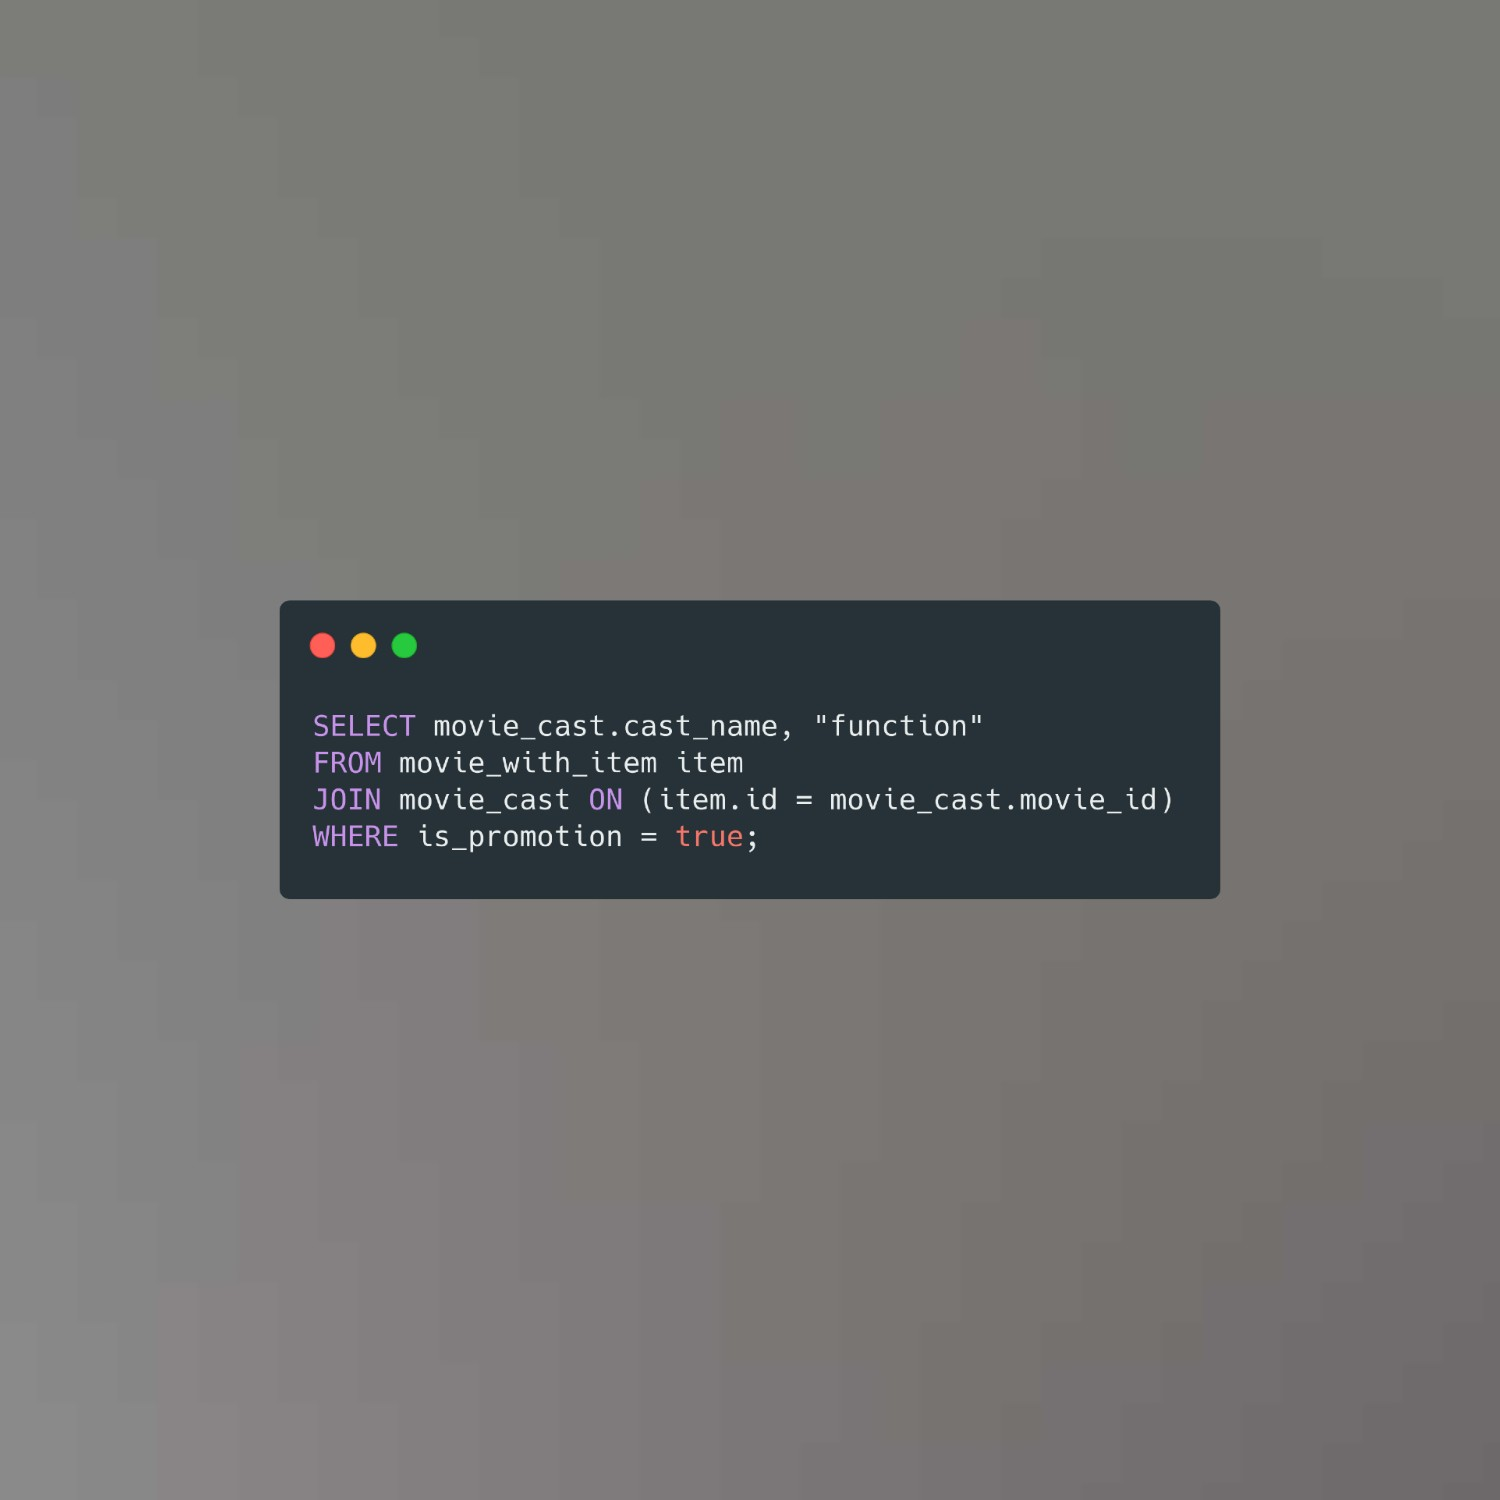
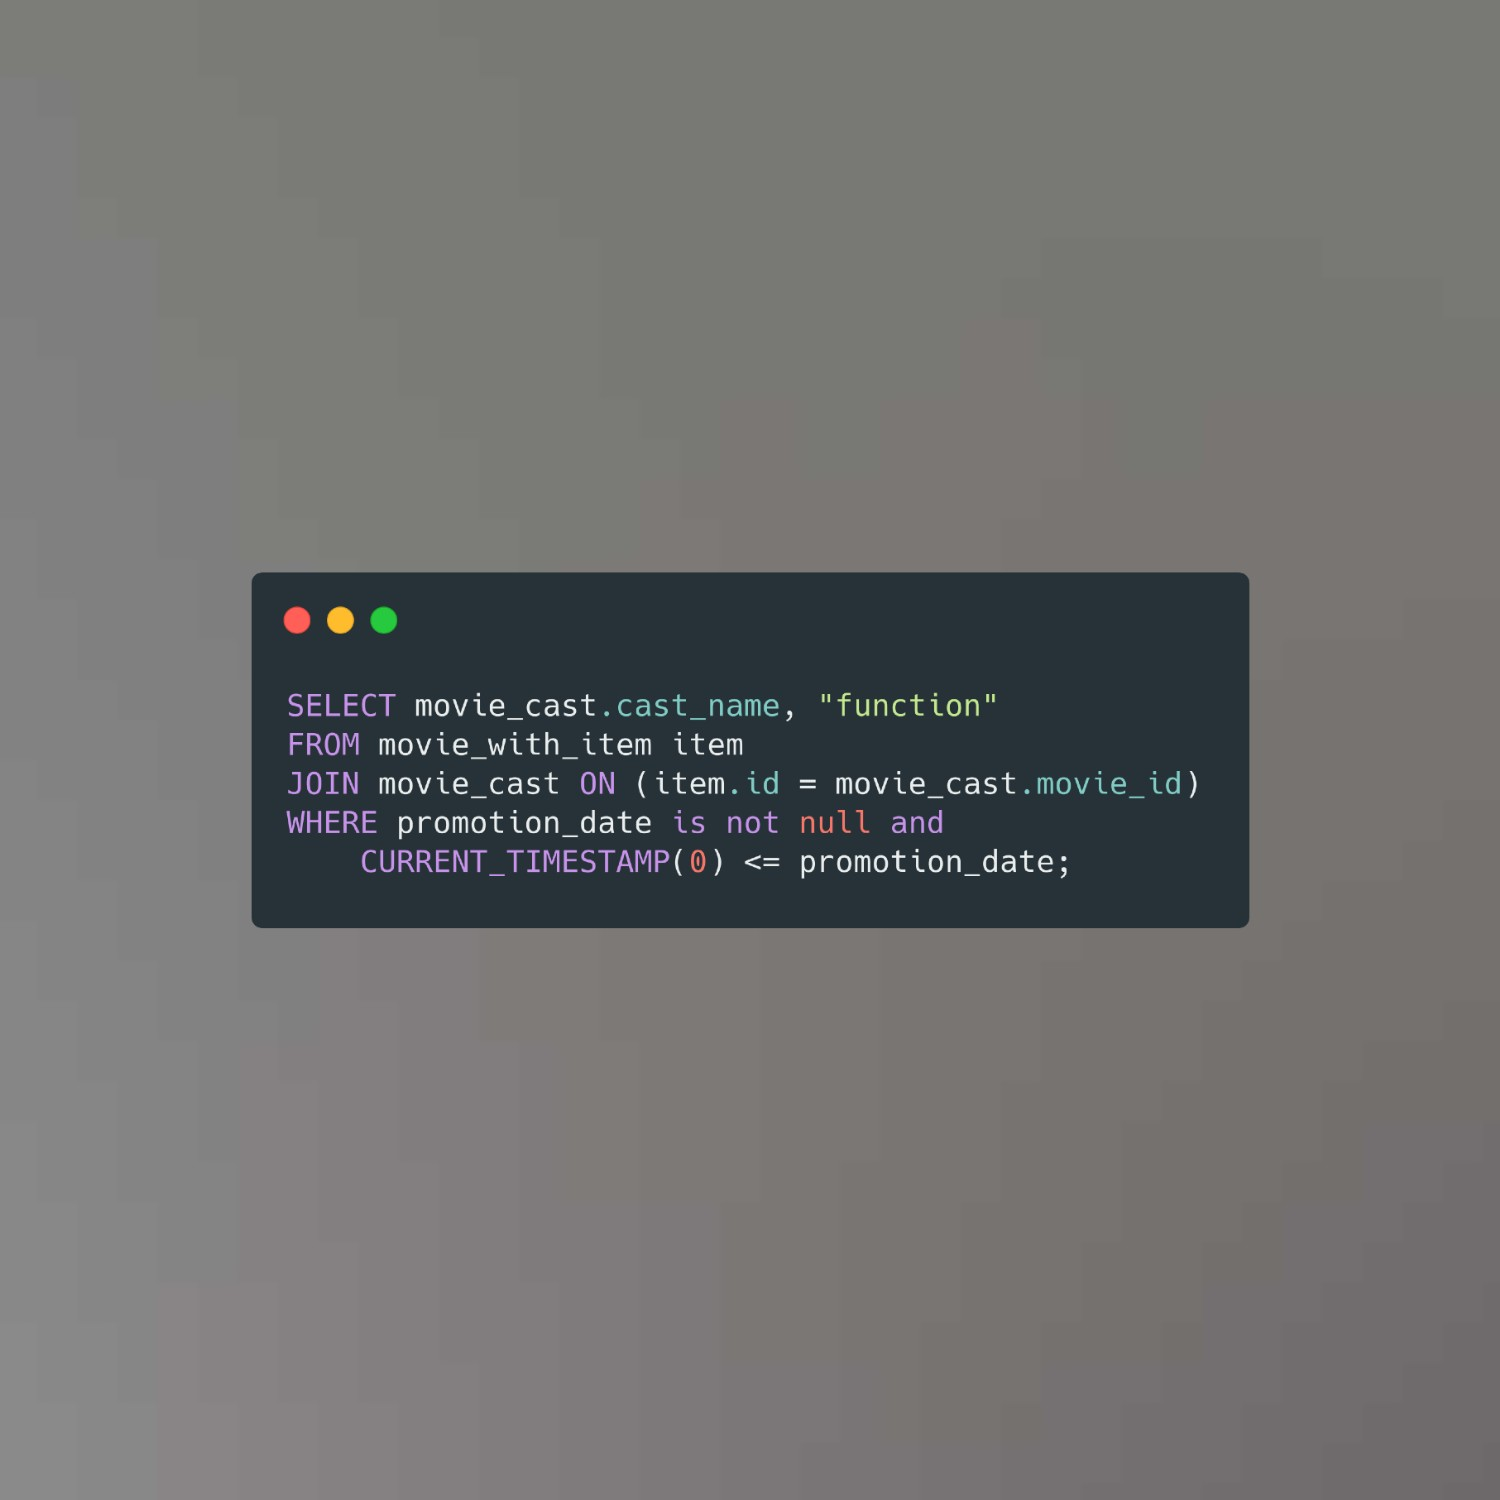
:sparkles: Changed is_promotion to promotion-date

Changed region(s): [[0.1533, 0.368, 0.8587, 0.644], [0.552, 0.46, 0.6747, 0.4907]]

diff --git a/src/queries.py b/src/queries.py
@@ -19,7 +19,7 @@ def promotion_film_members():
         query = run_select_query('SELECT movie_cast.cast_name, "function" \
                                   FROM movie_with_item item \
                                   JOIN movie_cast ON (item.id = movie_cast.movie_id) \
-                                  WHERE is_promotion = true;')
+                                  WHERE promotion_date is not null and CURRENT_TIMESTAMP(0) <= promotion_date;')
         return [{'name': obj[0], 'function': obj[1]} for obj in query]
     except (Exception, psycopg2.Error) as error:
         return {"status": "error", "error": error}
